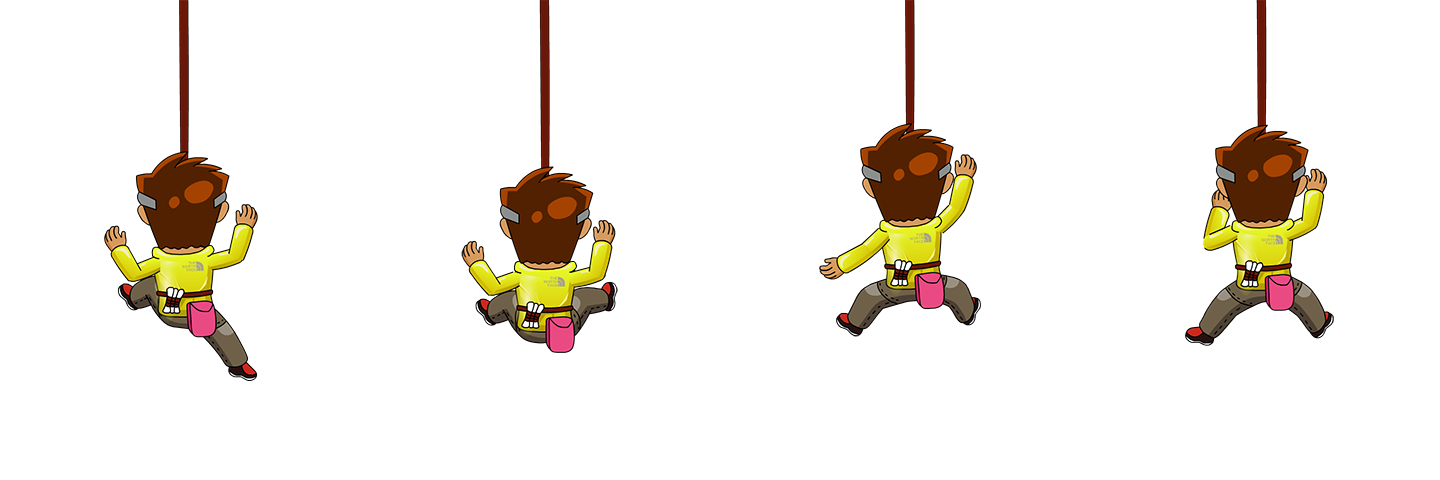
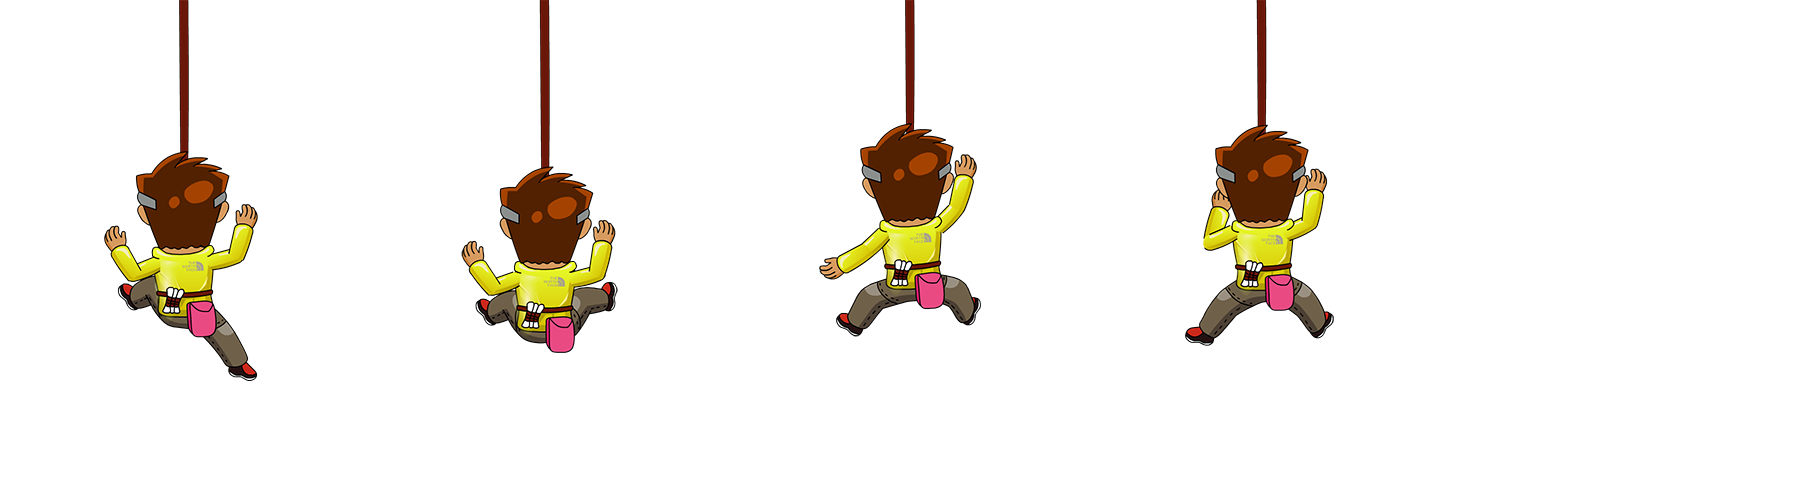
update

Changed region(s): [[0.25, 0.0, 0.75, 0.75], [0.0312, 0.0, 0.1875, 0.8125], [0.8125, 0.0, 0.9375, 0.7188]]

diff --git a/www/test.html b/www/test.html
@@ -76,7 +76,18 @@ p {margin:0;}
 .map { width: 320px;height:474px;position: relative;}
 
 
-
+.theclimer { display: none; 
+  background: url(img/player/g1_ok.png) , 
+  url(img/player/g2_ok.png),
+  url(img/player/g3_ok.png),
+  url(img/player/g4_ok.png),
+  url(img/player/g5_ok.png),
+  url(img/player/g1_down.png),
+  url(img/player/g2_down.png),
+  url(img/player/g3_down.png),
+  url(img/player/g4_down.png),
+  url(img/player/g5_down.png);
+}
 
   </style>
   
@@ -88,7 +99,7 @@ $(window).load(function(){
     fntA.image0 = new Image();
     fntA.image0.src = 'img/map/map01.jpg';
     fntA.player = new Image();
-    fntA.player.src = 'img/player/g1_ok.png';
+    fntA.player.src = 'img/player/g2_ok.png';
     fntA.gameLevel = 1;
     fntA.shakerecord = 0;
     fntA.climerRecord = 0;
@@ -166,43 +177,146 @@ function ClimerAnimate() {
       // clear
       ctx0.clearRect(0, 0, canvas.width, canvas.height);
       // update
-      
+      fntA.player.src = 'img/player/g'+ fntA.gameLevel+'_ok.png';
+      // fntA.player.src = 'img/player/g2_ok.png';
 
-      var newY = 0; //fntA.defaultY + ( fntA.ClimerAniStep - fntA.ClimerAniMove + 1) ;
+      console.log('fntA.player.src:' + fntA.player.src + ',fntA.gameLevel:' + fntA.gameLevel);
+
+      var newY = 0 , newX = -10; //fntA.defaultY + ( fntA.ClimerAniStep - fntA.ClimerAniMove + 1) ;
       fntA.ClimerAniMove = fntA.ClimerAniMove - 1;
       playerNewY = -60;
       // in ms
-      if(fntA.climerRecord < 18 && fntA.climerRecord >= 0){
-        playerNewX = -20;
-        // newY = fntA.defaultY + ( fntA.ClimerAniStep - fntA.ClimerAniMove - 10);
-        newY = -436;
+      switch (fntA.gameLevel) {
+        case 1:
+          if(fntA.climerRecord < 18 && fntA.climerRecord >= 0){
+            playerNewX = -20;
+            newY = -436;
+          }
+          if(fntA.climerRecord >= 18 && fntA.climerRecord < 37){
+            playerNewX = -380;
+            playerNewY = -50;
+            newY = -425;
+          }
+          if(fntA.climerRecord >= 37 && fntA.climerRecord < 60){
+            playerNewX = -740;
+            playerNewY = -40;
+            newY = -388;
+          }
+          if(fntA.climerRecord >= 60 && fntA.climerRecord < 80){
+            playerNewX = -1100;
+            playerNewY = -40;
+            newY = -388;
+          }
+        break;
+        case 2:
+          if(fntA.climerRecord < 18 && fntA.climerRecord >= 0){
+            playerNewX = -20;
+            newY = -388;
+          }
+          if(fntA.climerRecord >= 18 && fntA.climerRecord < 37){
+            playerNewX = -380;
+            playerNewY = -50;
+            newY = -388;
+          }
+          if(fntA.climerRecord >= 37 && fntA.climerRecord < 55){
+            playerNewX = -740;
+            playerNewY = -20;
+            newY = -298;
+          }
+          if(fntA.climerRecord >= 55 && fntA.climerRecord < 80){
+            playerNewX = -1100;
+            playerNewY = -20;
+            newY = -296;
+          }
+        break;
+        case 3:
+          if(fntA.climerRecord < 18 && fntA.climerRecord >= 0){
+            playerNewX = -20;
+            playerNewY = -30;
+            newY = -296;
+            newX = -20;
+          }
+          if(fntA.climerRecord >= 18 && fntA.climerRecord < 37){
+            playerNewX = -380;
+            playerNewY = -30;
+            newY = -270;
+            newX = -20;
+          }
+          if(fntA.climerRecord >= 37 && fntA.climerRecord < 55){
+            playerNewX = -740;
+            playerNewY = -20;
+            newY = -240;
+            newX = -26;
+          }
+          if(fntA.climerRecord >= 55 && fntA.climerRecord < 80){
+            playerNewX = -1096;
+            playerNewY = -20;
+            newY = -240;
+            newX = -30;
+          }
+        break;
+        case 4:
+          if(fntA.climerRecord < 18 && fntA.climerRecord >= 0){
+            playerNewX = 0;
+            playerNewY = -30;
+            newY = -236;
+            newX = -20;
+          }
+          if(fntA.climerRecord >= 18 && fntA.climerRecord < 37){
+            playerNewX = -360;
+            playerNewY = -30;
+            newY = -222;
+            newX = -20;
+          }
+          if(fntA.climerRecord >= 37 && fntA.climerRecord < 55){
+            playerNewX = -720;
+            playerNewY = -20;
+            newY = -212;
+            newX = -30;
+          }
+          if(fntA.climerRecord >= 55 && fntA.climerRecord < 80){
+            playerNewX = -1076;
+            playerNewY = -20;
+            newY = -210;
+            newX = -38;
+          }
+        break;
+        case 5:
+          if(fntA.climerRecord < 18 && fntA.climerRecord >= 0){
+            playerNewX = -20;
+            playerNewY = -30;
+            newY = -186;
+            newX = -40;
+          }
+          if(fntA.climerRecord >= 18 && fntA.climerRecord < 37){
+            playerNewX = -380;
+            playerNewY = -30;
+            newY = -180;
+            newX = -40;
+          }
+          if(fntA.climerRecord >= 37 && fntA.climerRecord < 55){
+            playerNewX = -740;
+            playerNewY = -27;
+            newY = -160;
+            newX = -40;
+          }
+          if(fntA.climerRecord >= 55 && fntA.climerRecord < 80){
+            playerNewX = -1066;
+            playerNewY = -27;
+            newY = -150;
+            newX = -30;
+          }
+        break;
       }
-      if(fntA.climerRecord >= 18 && fntA.climerRecord < 37){
-        playerNewX = -380;
-        // newY = fntA.defaultY + ( fntA.ClimerAniStep - fntA.ClimerAniMove - 10);
-        newY = -425;
-        playerNewY = -50;
-      }
-      if(fntA.climerRecord >= 37 && fntA.climerRecord < 60){
-        playerNewX = -740;
-        // newY = fntA.defaultY + ( fntA.ClimerAniStep - fntA.ClimerAniMove - 10);
-        newY = -388;
-        playerNewY = -40;
-      }
-      if(fntA.climerRecord >= 60 && fntA.climerRecord < 80){
-        playerNewX = -1100;
-        // newY = fntA.defaultY + ( fntA.ClimerAniStep - fntA.ClimerAniMove - 10);
-        newY = -388;
-        playerNewY = -40;
-      }
+
 
 
 
       // draw
       
-      ctx0.drawImage(fntA.image0,-10,newY,360,912);
+      ctx0.drawImage(fntA.image0,newX,newY,360,912);
       
-      ctx0.drawImage(fntA.player,playerNewX,playerNewY,1440,480);
+      ctx0.drawImage(fntA.player,playerNewX,playerNewY,1800,480);
 
       // animate
       if(fntA.ClimerAniMove < 2){
@@ -252,7 +366,7 @@ $('.play').on("click", function(){
   });
 
 ctx0.drawImage(fntA.image0,-10,-446,360,912);
-ctx0.drawImage(fntA.player,-20,-60,1440,480);
+ctx0.drawImage(fntA.player,-20,-60,1800,480);
 
 });//]]>  
 

diff --git a/www/script/mt2.js b/www/script/mt2.js
@@ -272,7 +272,7 @@ $(document).ready(function(){
       'img/player/g1_ok.png',
       'img/player/g2_ok.png',
       'img/player/g3_ok.png',
-      'img/player/g4_ok.png'];;
+      'img/player/g4_ok.png'];
     fntA.playDownArr = [
       'img/player/g1_down.png',
       'img/player/g2_down.png',
